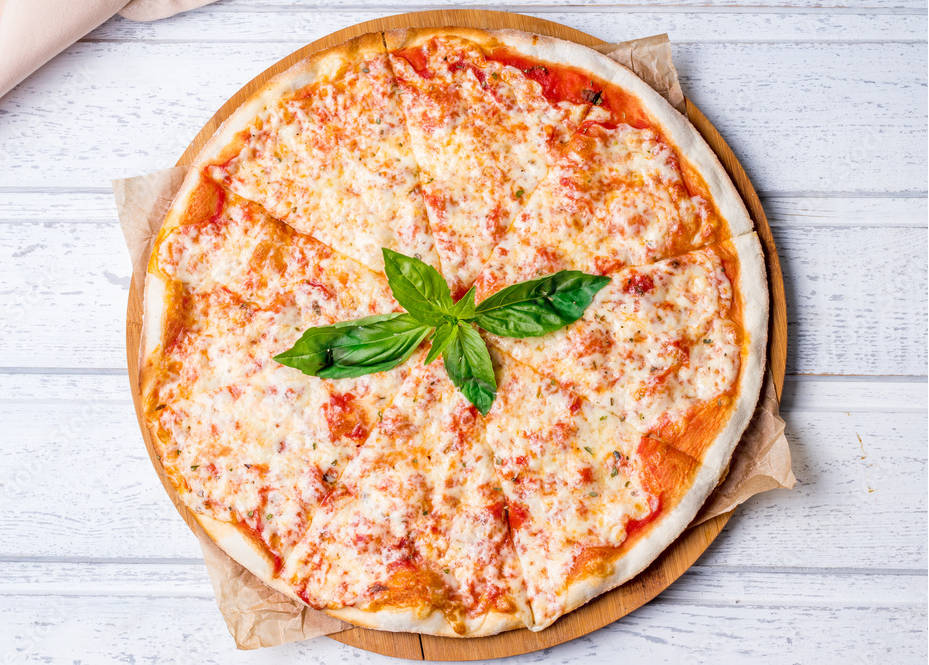
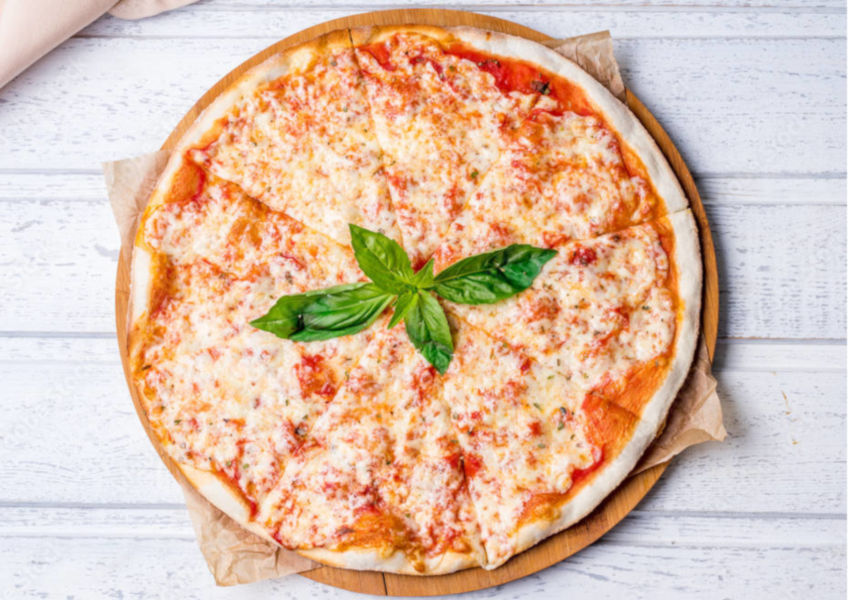
22:53

diff --git a/Html/index.html b/Html/index.html
@@ -11,17 +11,30 @@
 </head >
 <body class="background">
 
-    <ul class="banner">
-        <li><a class="linktree" href="index.php">Home</a></li>
-        <li><a class="linktree" href="menue.php">Menü</a></li>
-        <li><a class="linktree" href="karriere.php">Karriere</a></li>
-        <li><a class="linktree" href="ueberuns.php">Über uns</a></li>
-        <li><a class="linktree" href="kontakt.php">Karriere</a></li>
-    </ul>
+<nav class="navbar navbar-expand-lg bg-dark">
+    <div class="container-fluid">
+      <a class="navbar-brand text-light" href="#">Logo</a>
+      <button class="navbar-toggler" type="button" data-bs-toggle="collapse" data-bs-target="#navbarNavAltMarkup" aria-controls="navbarNavAltMarkup" aria-expanded="false" aria-label="Toggle navigation">
+        <span class="navbar-toggler-icon"></span>
+      </button>
+      <div class="collapse navbar-collapse" id="navbarNavAltMarkup">
+        <div class="navbar-nav">
+          <a class="nav-link active text-light" aria-current="page" href="#">Home</a>
+          <a class="nav-link text-light" href="menue.html">Menü</a>
+          <a class="nav-link text-light" href="kontakt.html">Kontakt</a>
+          <a class="nav-link text-light" href="karriere.html">Karriere</a>
+        </div>
+      </div>
+    </div>
+  </nav>
 
-        <h1 class="text-light text-center">Das sind unsere beliebtesten Pizzen</h1>
-        
-        <div id="carouselExampleCaptions" class="carousel slide" data-bs-ride="false">
+<br>
+
+    <h1 class="text-light text-center">Das sind unsere beliebtesten Pizzen</h1>
+
+<br>
+
+      <div id="carouselExampleCaptions" class="carousel slide" data-bs-ride="false">
           <div class="carousel-indicators">
             <button type="button" data-bs-target="#carouselExampleCaptions" data-bs-slide-to="0" class="active" aria-current="true" aria-label="Slide 1"></button>
             <button type="button" data-bs-target="#carouselExampleCaptions" data-bs-slide-to="1" aria-label="Slide 2"></button>
@@ -29,24 +42,24 @@
           </div>
           <div class="carousel-inner">
             <div class="carousel-item active">
-              <img src="../Images/Pizzen/Margherita.jpg" class="d-block w-100" alt="Bild von Margherita">
-              <div class="carousel-caption d-none d-md-block text-dark text-">
-                <h5>Margherita</h5>
-                <p>Zutaten: Tomaten, Käse, Oregano | <a href="menue.html">Mehr Infos</a></p>
+              <img src="../Images/Pizzen/Margherita.jpg" class="d-block w-99 rounded mx-auto" alt="Bild von Margherita">
+              <div class="carousel-caption d-none d-md-block text-dark text-bg-light">
+                <h5>Pizza Margherita</h5>
+                <p>Zutaten: Tomaten, Käse, Oregano | <a href="menue.html" class="text-decoration-underline text-danger">Mehr Infos</a></p>
               </div>
             </div>
             <div class="carousel-item">
-              <img src="../Images/test_2.png" class="d-block w-100" alt="...">
-              <div class="carousel-caption d-none d-md-block">
-                <h5>Second slide label</h5>
-                <p>Some representative placeholder content for the second slide.</p>
+              <img src="../Images/Pizzen/Salami.jpeg" class="d-block w-99 rounded mx-auto" alt="Bild von Salami">
+              <div class="carousel-caption d-none d-md-block text-dark text-bg-light">
+                <h5>Pizza Salami</h5>
+                <p>Zutaten: Tomaten, Käse, Oregano, Salami | <a href="menue.html" class="text-decoration-underline text-danger">Mehr Info</a></p>
               </div>
             </div>
             <div class="carousel-item">
-              <img src="../Images/test_3.jpg" class="d-block w-100" alt="...">
-              <div class="carousel-caption d-none d-md-block">
-                <h5>Third slide label</h5>
-                <p>Some representative placeholder content for the third slide.</p>
+              <img src="../Images/Pizzen/Pepperoni.jpeg" class="d-block w-99 rounded mx-auto" alt="Bild von Pepperoni">
+              <div class="carousel-caption d-none d-md-block text-dark text-bg-light">
+                <h5>Pepperoni</h5>
+                <p>Zutaten: Tomaten, Käse, Oregano, Salami</p>
               </div>
             </div>
           </div>
@@ -58,6 +71,23 @@
             <span class="carousel-control-next-icon" aria-hidden="true"></span>
             <span class="visually-hidden">Next</span>
           </button>
+        </div>
+
+        <br>
+        <br>
+
+        <hr class="bg-black border-3 border-top border-light">
+
+        <br>
+        
+        <div class="bs-docs-section text-center text-light">
+          <h1 id="kontakt">Kontaktinformationen</h1>
+          <address>
+            <strong>Jakob Natschläger und Noah Reinthaler</strong><br>
+            <abbr title="Telefonnummer">Tel.: </abbr> +49 1573 0056780<br>
+            <abbr title="Email-Adresse">Email: </abbr> <a href="mailto:jakob.natschlaeger@tfs-haslach.at">jakob.natschlaeger@tfs-haslach.at</a>
+            <p><a href="ueberuns">Mehr Informationen zu uns</a></p>
+          </address>
         </div>
 
        <script src="https://cdn.jsdelivr.net/npm/bootstrap@5.2.2/dist/js/bootstrap.bundle.min.js" integrity="sha384-OERcA2EqjJCMA+/3y+gxIOqMEjwtxJY7qPCqsdltbNJuaOe923+mo//f6V8Qbsw3" crossorigin="anonymous"></script>

diff --git a/CSS/sytle.css b/CSS/sytle.css
@@ -9,3 +9,4 @@
 .linktree{
     color: lightblue;
 }
+
